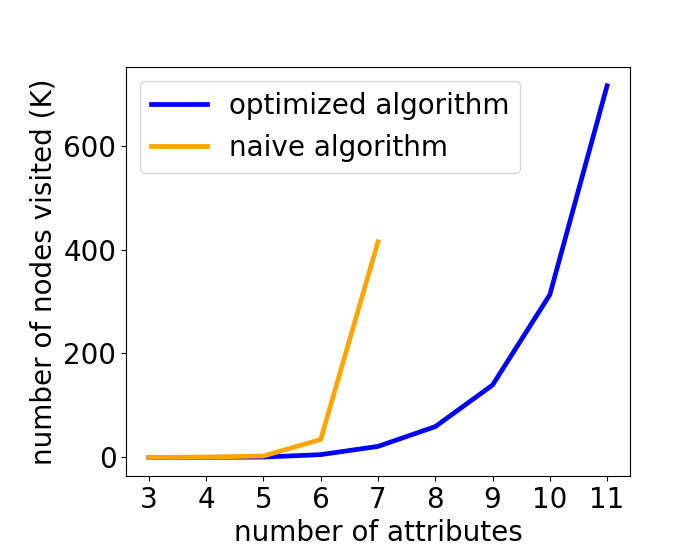
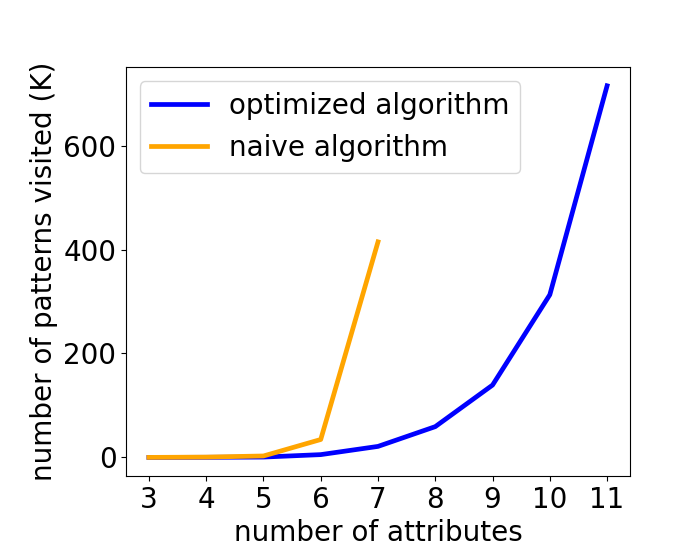
general, creditcard, num att

Changed region(s): [[0.03, 0.1214, 0.09, 0.85]]

diff --git a/Coding/Experiments/General_FP/CreditcardData/num_attributes_0_20210523.py b/Coding/Experiments/General_FP/CreditcardData/num_attributes_0_20210523.py
@@ -8,7 +8,7 @@ x axis: the number of attributes, from 2 to 13.
 
 other parameters:
 CleanAdult2.csv
-threshold of cardinality Thc = 30
+size threshold Thc = 30
 threshold of minority group accuracy: overall acc - 20
 """
 
@@ -226,7 +226,7 @@ fig, ax = plt.subplots()
 plt.plot(x_new, num_calculation1, label="optimized algorithm", color='blue', linewidth = 3.4)
 plt.plot(x_naive, num_calculation2, label="naive algorithm", color='orange', linewidth = 3.4)
 plt.xlabel('number of attributes')
-plt.ylabel('number of nodes visited (K)')
+plt.ylabel('number of patterns visited (K)')
 ax.yaxis.set_major_formatter(FuncFormatter(thousands_formatter))
 
 

diff --git a/Coding/Experiments/General_FP/CreditcardData/num_attributes_1_20210629.py b/Coding/Experiments/General_FP/CreditcardData/num_attributes_1_20210629.py
@@ -8,7 +8,7 @@ x axis: the number of attributes, from 2 to 13.
 
 other parameters:
 CleanAdult2.csv
-threshold of cardinality Thc = 30
+size threshold Thc = 30
 threshold of minority group accuracy: overall acc - 20
 """
 
@@ -246,7 +246,7 @@ fig, ax = plt.subplots()
 plt.plot(x_new, num_calculation1, label="optimized algorithm", color='blue', linewidth = 3.4)
 plt.plot(x_naive, num_calculation2, label="naive algorithm", color='orange', linewidth = 3.4)
 plt.xlabel('number of attributes')
-plt.ylabel('number of nodes visited (K)')
+plt.ylabel('number of patterns visited (K)')
 ax.yaxis.set_major_formatter(FuncFormatter(thousands_formatter))
 
 
